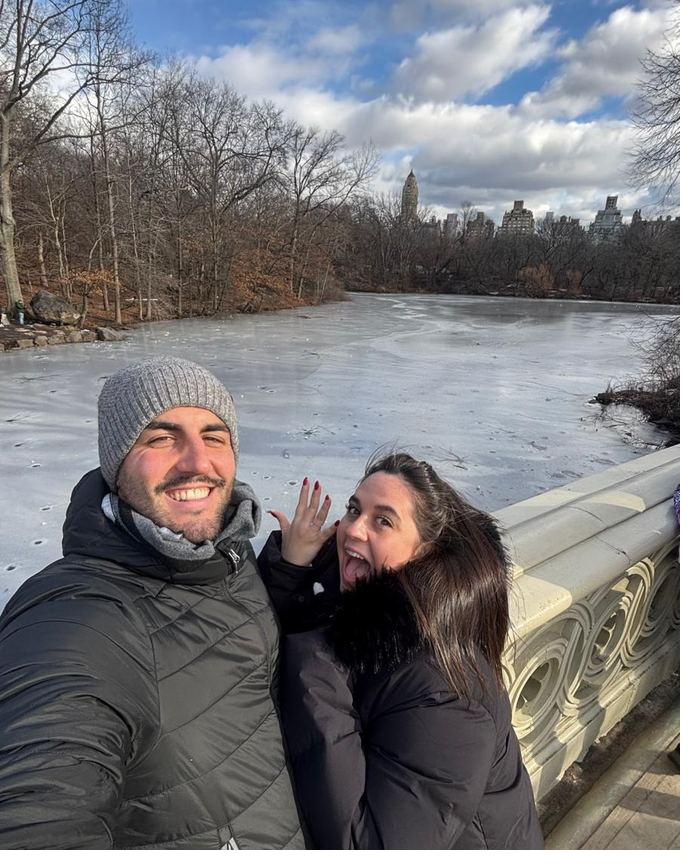
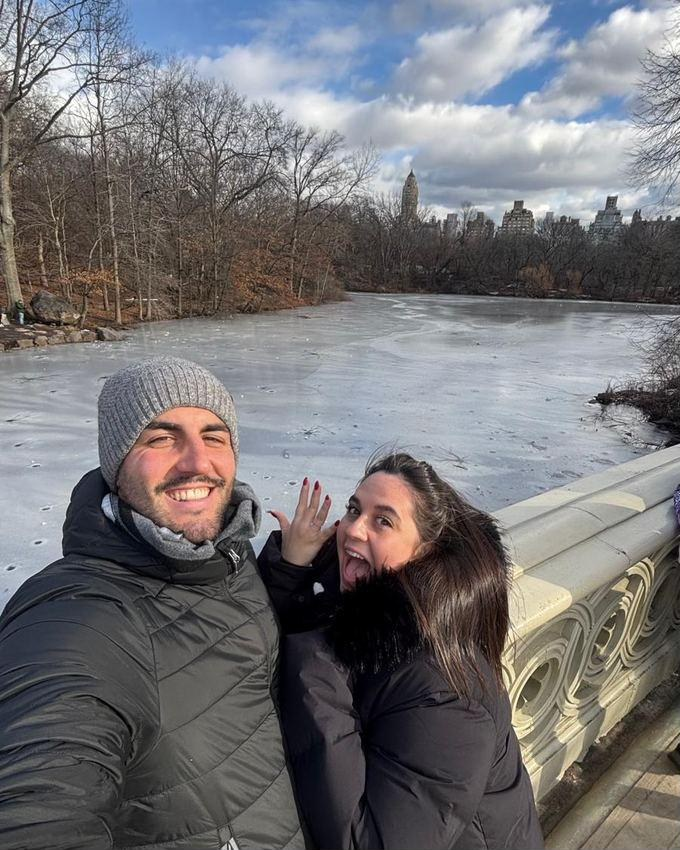
fotos

diff --git a/index.html b/index.html
@@ -18,7 +18,7 @@
 <link rel="preconnect" href="https://fonts.googleapis.com">
 <link rel="preconnect" href="https://fonts.gstatic.com" crossorigin>
 <link rel="stylesheet" href="https://fonts.googleapis.com/css2?family=Cormorant+Garamond:ital,wght@0,300;0,400;1,300&family=Karla:wght@400;500;600&family=Parisienne&display=swap">
-<link rel="stylesheet" href="assets/styles.css?v=3">
+<link rel="stylesheet" href="assets/styles.css?v=4">
 </head>
 <body>
 
@@ -94,9 +94,9 @@
         fácil, y precisamente por eso nos hace especial ilusión que estéis.</p>
       </div>
       <div class="gal">
-        <figure class="gal__it"><img src="assets/img/pareja-1.jpg" alt="Álvaro y Rocío en Central Park" loading="lazy" width="700" height="875"></figure>
-        <figure class="gal__it"><img src="assets/img/pareja-2.jpg" alt="Álvaro y Rocío" loading="lazy" width="700" height="875"></figure>
-        <figure class="gal__it"><img src="assets/img/pareja-3.jpg" alt="Álvaro y Rocío en Nueva York" loading="lazy" width="700" height="875"></figure>
+        <figure class="gal__it"><img src="assets/img/pareja-1.jpg" alt="Álvaro y Rocío en Central Park" loading="lazy" width="680" height="850"></figure>
+        <figure class="gal__it"><img src="assets/img/pareja-2.jpg" alt="Álvaro y Rocío" loading="lazy" width="680" height="850"></figure>
+        <figure class="gal__it"><img src="assets/img/pareja-3.jpg" alt="Álvaro y Rocío en Nueva York" loading="lazy" width="680" height="850"></figure>
       </div>
     </div>
   </div>
@@ -403,6 +403,6 @@
   </div>
 </footer>
 
-<script src="assets/main.js?v=3" defer></script>
+<script src="assets/main.js?v=4" defer></script>
 </body>
 </html>
